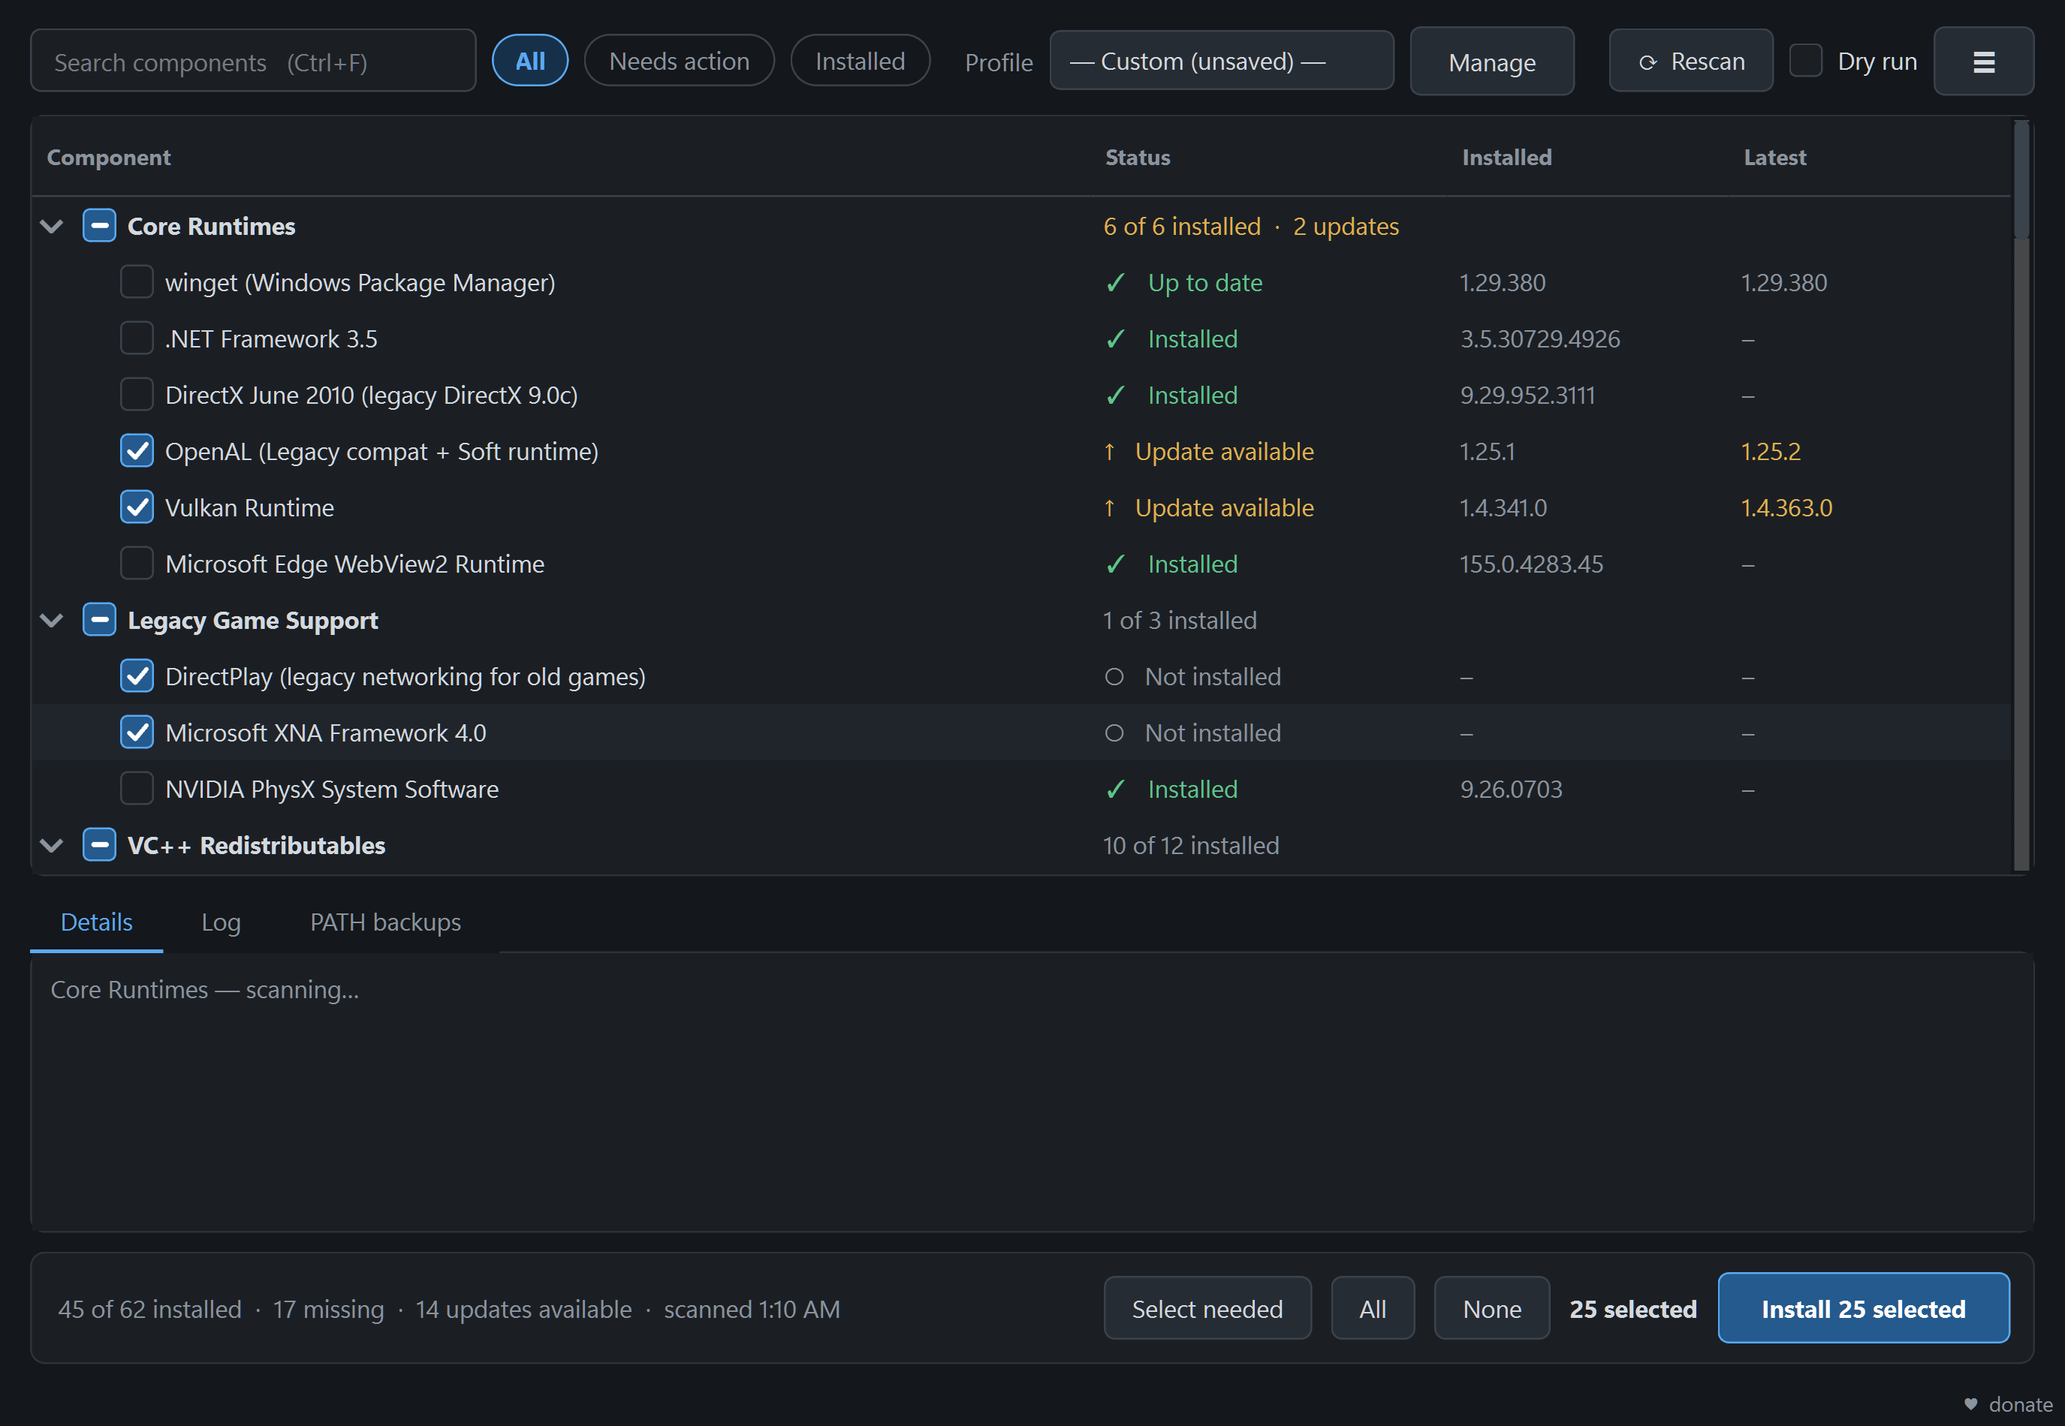
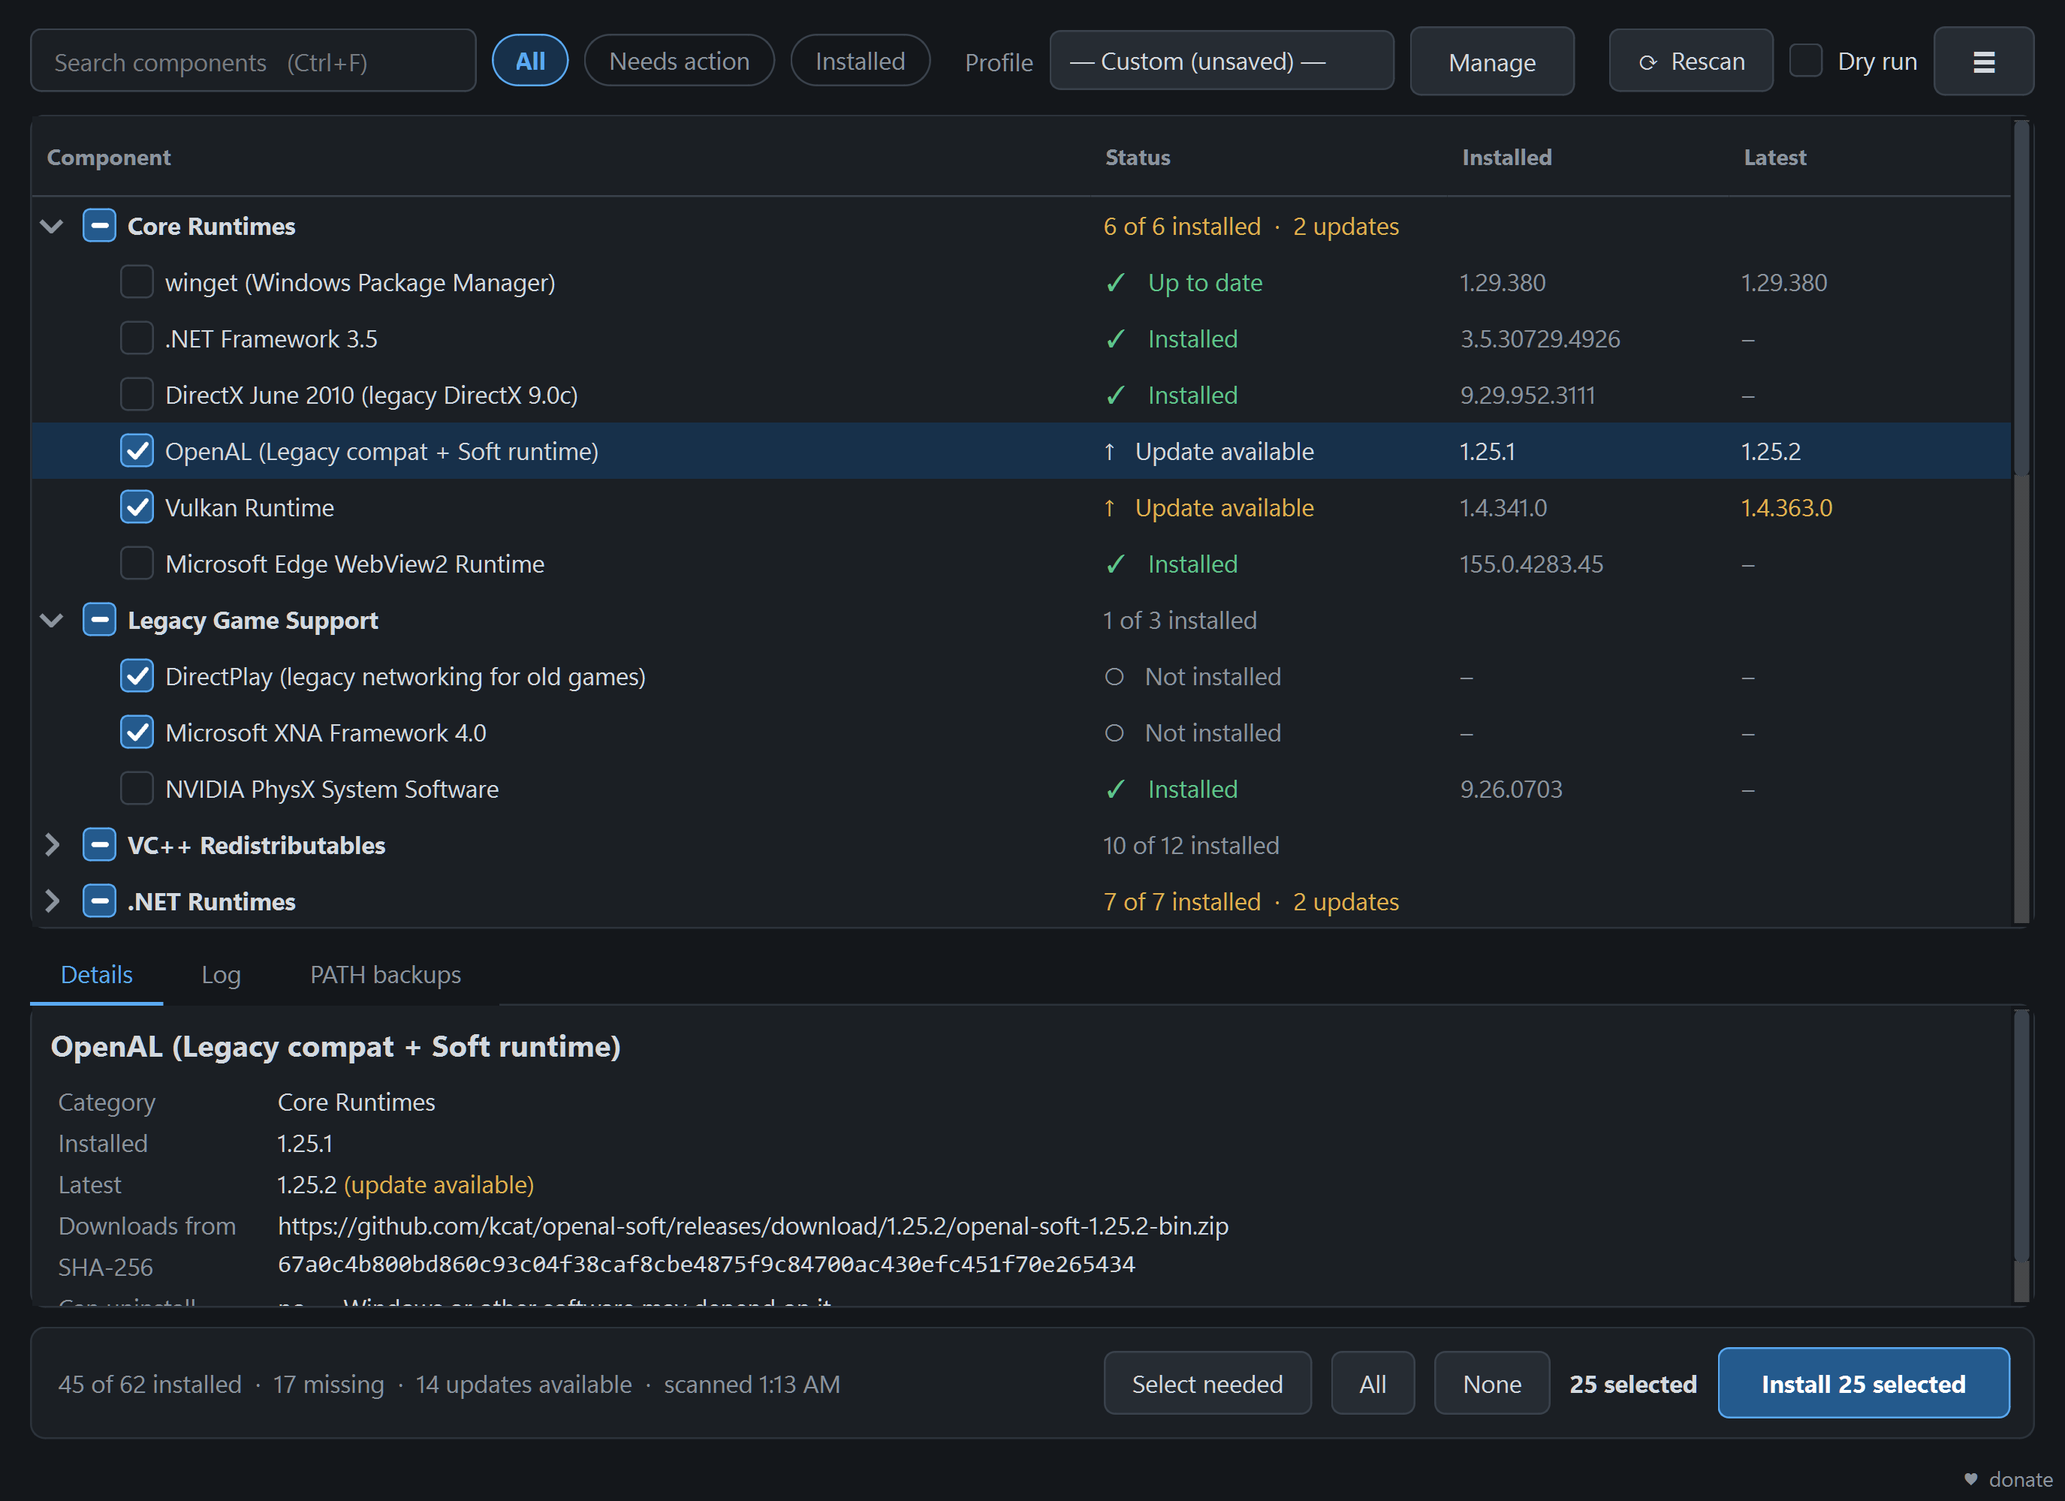
Release 0.4.0: handoff notes, new screenshots, version bump
- HANDOFF.md: current state, code map, release recipe, gotchas, the
  untested-before-first-use checklist, and what's next
- README: dark + light screenshots, pointer to HANDOFF.md, screenshot tool options
- tools/screenshot.py: --theme, --expand, --select, throw-away data dir
- version 0.4.0 (CHANGELOG heading, window title, installer script)

diff --git a/tools/screenshot.py b/tools/screenshot.py
@@ -1,11 +1,23 @@
-"""Renders the main window (after a real scan) to a PNG for docs/visual checks.
+"""Renders the main window (after a real scan) to a PNG for the README and visual checks.
 
-    venv\Scripts\python.exe tools\screenshot.py [out.png] [--width 1180 --height 780]
+    venv\Scripts\python.exe tools\screenshot.py out.png [options]
+
+    --width N --height N     window size (default 1180x780)
+    --theme dark|light       force a theme (default: whatever the settings say)
+    --expand "A,B"           expand only these categories, collapse the rest
+    --select KEY             highlight a component so the Details tab shows it
+    --no-banner              hide the "not running as administrator" banner
+
+The theme and window settings go to a throw-away data folder, so running this
+never changes your real settings.
 """
+import os
 import sys
+import tempfile
 import time
 from pathlib import Path
 
+os.environ.setdefault("RUNTIME_FORGE_DATA_DIR", tempfile.mkdtemp(prefix="rf_shot_"))
 sys.path.insert(0, str(Path(__file__).resolve().parent.parent))
 
 from PyQt6.QtWidgets import QApplication
@@ -13,28 +25,44 @@ from PyQt6.QtWidgets import QApplication
 from ui.main_window import MainWindow
 
 
+def _opt(name, default=None):
+    return sys.argv[sys.argv.index(name) + 1] if name in sys.argv else default
+
+
 def main():
-    args = [a for a in sys.argv[1:] if not a.startswith("--")]
-    out = Path(args[0] if args else "screenshot.png")
-    width = int(sys.argv[sys.argv.index("--width") + 1]) if "--width" in sys.argv else 1180
-    height = int(sys.argv[sys.argv.index("--height") + 1]) if "--height" in sys.argv else 780
+    out = Path(sys.argv[1]) if len(sys.argv) > 1 and not sys.argv[1].startswith("--") else Path("screenshot.png")
+    width, height = int(_opt("--width", 1180)), int(_opt("--height", 780))
 
     app = QApplication(sys.argv)
     window = MainWindow()
+    window._save_settings = lambda: None  # don't persist the screenshot's geometry
+    if _opt("--theme"):
+        window._set_theme_pref(_opt("--theme"))
     window.resize(width, height)
     window.show()
-    deadline = time.time() + 60
+    deadline = time.time() + 90
     while window.scan_worker is not None and time.time() < deadline:
         app.processEvents()
         time.sleep(0.05)
     for _ in range(20):
         app.processEvents()
         time.sleep(0.02)
+
     if "--no-banner" in sys.argv and hasattr(window, "banner"):
         window.banner.hide()
+    if _opt("--expand"):
+        wanted = {c.strip() for c in _opt("--expand").split(",")}
+        for name, cat_item in window.category_items.items():
+            cat_item.setExpanded(name in wanted)
+    if _opt("--select"):
+        item = window.tree_items[_opt("--select")]
+        window.tree.setCurrentItem(item)
+    for _ in range(10):
         app.processEvents()
+        time.sleep(0.02)
+    window.tree.verticalScrollBar().setValue(0)
+    app.processEvents()
     window.grab().save(str(out))
-    window._save_settings = lambda: None  # don't persist the screenshot's geometry
     print(f"saved {out} ({width}x{height})")
     window.close()
 

diff --git a/ui/main_window.py b/ui/main_window.py
@@ -72,7 +72,7 @@ def build_app_stylesheet() -> str:
 
 class MainWindow(QMainWindow):
     APP_NAME = "Runtime Forge"
-    APP_VERSION = "0.3.0"
+    APP_VERSION = "0.4.0"
 
     def __init__(self):
         super().__init__()

diff --git a/HANDOFF.md b/HANDOFF.md
@@ -1,0 +1,136 @@
+# Runtime Forge — handoff notes
+
+For whoever (human or Claude) picks this up next. Written at v0.4.0.
+
+## Where things stand
+
+- **App:** PyQt6 desktop GUI that scans, installs, updates and uninstalls 62 Windows
+  runtimes / dev tools / apps. Dark + light theme (follows Windows). See `README.md`.
+- **Repo:** <https://github.com/Echo-Storm/Runtime_Forge>, branch `main`, public.
+- **Releases:** v0.2.0, v0.3.0, v0.4.0 (v0.1.0 was deleted — its installer had been
+  built from a stale `dist/`). Latest is v0.4.0.
+- **Tests:** 22 standalone scripts, `venv\Scripts\python.exe tools\run_tests.py` → all pass.
+- **The one thing nobody has done yet:** run the *installed* app (elevated) and install the
+  v0.4.0 additions for real. Everything below "Untested" is that list.
+
+## Map of the code
+
+```
+runtime_forge.py        entry point
+core/
+  definitions.py        the core registry: Component dataclass, build_components(), VC++/.NET/JDK/
+                        Python/dev-tool installers, uninstall helpers, CATEGORY_ORDER
+  catalog.py            the v0.4.0 additions (Terminal, DirectPlay, XNA, PhysX, uv, Go, Rust, Ghidra,
+                        MSYS2, Inno Setup, Chrome, Discord, AnyDesk, Claude); winget-backed factory
+  downloader.py         download() + Trust(publishers, sha256); verify on fresh AND cached files;
+                        reverify() right before execution
+  signature.py          WinVerifyTrust via ctypes, signer CN/O extraction, publisher allowlist
+  installer_runner.py   run_exe / run_msi (re-verify, exit-code handling, timeout)
+  version_resolvers.py  GitHub / Adoptium / Node lookups, LatestInfo(version,url,filename,sha256)
+  http_cache.py         session cache for "latest version" GETs (single-flight, TTL)
+  checks.py             registry/PE/command probes; one-read registry snapshot; appx_package_version()
+  path_backup.py / profiles.py / logger.py / paths.py
+ui/
+  main_window.py        the window (tree, toolbar, tabs, action bar, theme switching)
+  theme.py              DARK / LIGHT palettes + the one stylesheet builder
+  workers.py            ScanWorker (concurrent), InstallWorker, UninstallWorker, AppUpdateCheck
+tools/                  run_tests, verify_downloads, screenshot, inspect_dll_version, gen_* (see README)
+tests/                  one script per feature/fix; each prints name: True/False + ALL_OK
+installer/RuntimeForge.iss   Inno Setup script
+assets/                 icon, banner, screenshots, tick/dash/chevron images, Windows Terminal profile
+```
+
+### Ideas that shape the code
+
+- **Trust model.** Every download carries a `Trust`: an Authenticode publisher allowlist and/or a
+  SHA-256 (GitHub release digest, vendor JSON, or pinned in source). Failures are never retried.
+  Unsigned vendors (7-Zip, LLVM, jq, ninja, OpenAL Soft, uv, Ghidra, rustup) are hash-only.
+  winget-backed components rely on winget's manifest hash instead.
+- **`optional` components** (apps, Go, Rust, uv, Ghidra, MSYS2, Inno Setup, PhysX) are never
+  pre-checked by the first scan or *Select needed* (an update to an installed one still is).
+- **Status "kinds"** (ok / update / missing / busy / fail / skip / warn / checking) are stored on
+  tree items so a theme switch can recolor them (`_restyle_items`).
+- **Data location:** installed copy → `%LOCALAPPDATA%\RuntimeForge`; source or `portable.txt` →
+  next to the app. `RUNTIME_FORGE_DATA_DIR` overrides (tests and `tools/screenshot.py` use it).
+  Installer *staging* stays beside the exe on purpose (it's executed elevated — must not be
+  user-writable).
+
+## Releasing (the exact recipe)
+
+1. Bump the version in three places: `ui/main_window.py` (`APP_VERSION`), `installer/RuntimeForge.iss`
+   (`#define AppVersion` + the comment on line 12), and the `CHANGELOG.md` heading.
+2. `venv\Scripts\python.exe tools\run_tests.py` — all green.
+3. Build **with the admin manifest** (make sure `RF_NO_ADMIN` is *unset*):
+   `venv\Scripts\python.exe -m PyInstaller RuntimeForge.spec --clean --noconfirm`
+   **Never** use `venv\Scripts\pyinstaller.exe` — that launcher silently does nothing when the
+   venv has been moved, and you end up packaging a stale `dist/` (this bit v0.1.0).
+4. Verify the bundle: all `core.*`/`ui.*` modules are in `build\RuntimeForge\PYZ-00.pyz`
+   (use `PyInstaller.archive.readers.ZlibArchiveReader`), `dist\RuntimeForge\_internal\assets`
+   has every image + `windows_terminal_settings.json`, and the exe contains `requireAdministrator`.
+5. Smoke-test a non-elevated build: `set RF_NO_ADMIN=1`, build with
+   `--distpath dist_test --workpath build_test`, launch it, confirm a log appears in
+   `%LOCALAPPDATA%\RuntimeForge` and it scans; kill it; delete `dist_test`, `build_test`, and
+   `%LOCALAPPDATA%\RuntimeForge` (only if it didn't exist before).
+6. Installer: `"%LOCALAPPDATA%\Programs\Inno Setup 7\ISCC.exe" installer\RuntimeForge.iss`
+   → `dist_installer\RuntimeForge-Setup-<ver>.exe`.
+7. `git push`, then `gh release create v<ver> dist_installer\RuntimeForge-Setup-<ver>.exe --target main --title ... --notes ...`.
+
+## Gotchas
+
+- Use `python -m pip` / `python -m PyInstaller`, never the `venv\Scripts\*.exe` launchers.
+- GitHub's unauthenticated limit is 60 requests/hour; a few scans exhaust it and the app falls
+  back to pinned versions. Set `GITHUB_TOKEN` (or `GH_TOKEN=$(gh auth token)`) when developing.
+  The token is only ever sent to `api.github.com`.
+- `tools/verify_downloads.py` downloads ~1.5 GB for everything; use `--only` / `--skip`.
+  It stubs every installer, `winget`, `dism` and file placement — it never installs anything.
+- Git prints "LF will be replaced by CRLF" warnings on every add; harmless (see `.gitattributes`).
+- python.org stops shipping Windows installers once a series goes security-only: 3.10–3.12 are
+  pinned to their *last installer* releases (3.10.11 / 3.11.9 / 3.12.10). `verify_downloads`
+  catches this kind of drift.
+- Claude desktop is an **MSIX** package, so it's found through the registry's AppModel
+  repository (`checks.appx_package_version`), not Programs-and-Features. Same for Terminal.
+- `api.adoptium.net` resets TLS handshakes from Python's OpenSSL on some machines (curl works);
+  Temurin is resolved from the `temurin<N>-binaries` GitHub releases instead.
+- Only the **packaged** app checks for newer releases; a source checkout doesn't
+  (`RF_FORCE_UPDATE_CHECK=1` forces it).
+
+## Untested — check these first when you run v0.4.0
+
+Everything below was verified *offline* (detection against this machine, command construction,
+download hash/signature) but never actually executed as an install:
+
+- [ ] The **installer itself** and the elevated launch (UAC prompt, Start Menu shortcut, uninstall).
+- [ ] **DirectPlay** — "installed" means both `System32` and `SysWOW64` `dplayx.dll` exist (a
+      heuristic; `dism` needs admin to ask properly). Does enabling it flip the check?
+- [ ] **XNA 4.0** MSI silent install + its Programs-and-Features entry name.
+- [ ] **Windows Terminal** msixbundle `Add-AppxPackage` (dependencies VCLibs / UI.Xaml are
+      assumed present on Win11) and the profile component afterwards.
+- [ ] **Rust**: `rustup-init -y …` (needs the MSVC build tools to *link*); `rustup self uninstall`.
+- [ ] **Ghidra**: ~500 MB extraction into `Program Files\Ghidra`; needs JDK 21.
+- [ ] **Go** MSI (PATH, uninstall via the registry entry).
+- [ ] **uv** portable placement + PATH entry + uninstall.
+- [ ] **Chrome** enterprise MSI (silent, uninstall via `^Google Chrome$`).
+- [ ] The **winget-backed** six — Discord, AnyDesk, Claude, MSYS2, Inno Setup, PhysX: command is
+      `winget install --id … -e --silent --accept-package-agreements --accept-source-agreements
+      --disable-interactivity`; check exit codes, per-user installs under an elevated process,
+      and the detection patterns (`catalog.py`: `_discord_state`, `_anydesk_state`, …).
+- [ ] *Optional* behavior on a fresh machine: first scan pre-checks only the non-optional missing items.
+- [ ] A real **update** path for something with a newer release (the app's own: the status-bar
+      "v0.x available" button).
+
+## What's next (suggested order)
+
+1. Whatever the test pass above turns up.
+2. **Declarative component specs** — `definitions.py` is ~1,800 lines and ~15 components repeat
+   resolve → download → verify → run. A small spec type (like the winget factory in
+   `catalog.py`) would make a new tool a few lines, and could load from a JSON catalog.
+3. **CI**: GitHub Actions on `windows-latest` running `tools/run_tests.py`, and building the
+   installer + attaching it to a release on tag (needs Inno Setup via choco).
+4. **Windows Terminal profile merge** instead of replace (merge profiles by GUID; keep the user's own).
+5. **Code signing** for the exe/installer (SmartScreen warns today).
+6. **On-demand elevation**: launch un-elevated and only elevate when something needs it
+   (the manifest currently forces admin; a prototype idea is a `requires_admin` flag per component).
+7. Update detection for the winget-backed apps (winget's manifests lag the vendors, so a naive
+   compare would nag forever — needs care).
+8. ARM64 Windows (everything assumes x64), Python 3.15 when it ships, more tools from the wishlist
+   (Notepad++, PowerToys, Sysinternals, mpv, ffmpeg).

diff --git a/README.md b/README.md
@@ -25,7 +25,13 @@ Author: XechostormX
 
 Screenshot
 ----------
-<p align="center"><img src="assets/screenshot.png" alt="Runtime Forge main window — a searchable component tree with status, installed and latest versions, a filter bar, a log and PATH-backup pane, and a one-click Install button"></p>
+<table>
+<tr>
+<td><img src="assets/screenshot.png" alt="Runtime Forge, dark theme: the component tree with status, installed and latest versions, filter chips, a Details pane for the selected component and a one-click Install button"></td>
+<td><img src="assets/screenshot-light.png" alt="Runtime Forge, light theme"></td>
+</tr>
+<tr><td align="center">Dark</td><td align="center">Light (or follow Windows)</td></tr>
+</table>
 
 What it does
 ------------
@@ -163,6 +169,9 @@ task, no auto-start entry, and no tray icon/background service.
 
 Dev tools
 ---------
+Picking this up again? Start with [HANDOFF.md](HANDOFF.md) — current state, the release
+recipe, what's untested and what's next.
+
 Everything lives in `tools/`; run any of them with
 `venv\Scripts\python.exe tools\<name>.py`.
 
@@ -170,7 +179,7 @@ Everything lives in `tools/`; run any of them with
 |---|---|
 | `run_tests.py [filter...] [-v]` | Runs every `tests/test_*.py` in its own process (offscreen Qt, throw-away data dir) and prints one PASS/FAIL line each. |
 | `verify_downloads.py [--only k,k] [--skip k,k]` | Downloads every component through the real hash/signature checks without installing anything. Run it after touching a URL, hash or publisher. ~1.5 GB for everything. |
-| `screenshot.py [out.png] [--width N --height N] [--no-banner]` | Renders the real window after a real scan to a PNG (how `assets/screenshot.png` is made). |
+| `screenshot.py out.png [--theme dark\|light] [--expand "A,B"] [--select KEY] [--no-banner] [--width N --height N]` | Renders the real window after a real scan to a PNG (how the README screenshots are made); settings go to a throw-away folder. |
 | `inspect_dll_version.py <path> [field ...]` | Prints a DLL/EXE's PE VERSIONINFO fields — what caught the OpenAL false-positive (an NVIDIA-bundled `OpenAL32.dll` passing a filename-only check). Reach for it when two binaries share a filename but not an identity. |
 | `gen_icon.py`, `gen_banner.py`, `gen_check.py` | Regenerate `assets/icon.*`, `assets/banner.png`, and the tick / dash / chevron images the stylesheet uses. Need Pillow (`requirements-dev.txt`). |
 

diff --git a/CHANGELOG.md b/CHANGELOG.md
@@ -1,6 +1,6 @@
 # Changelog
 
-## Unreleased
+## 0.4.0
 - **Windows Terminal is now installable** (it wasn't offered before, though the
   bundled terminal profile depends on it). The profile refuses to apply when
   Terminal isn't there instead of creating an orphan settings folder.
